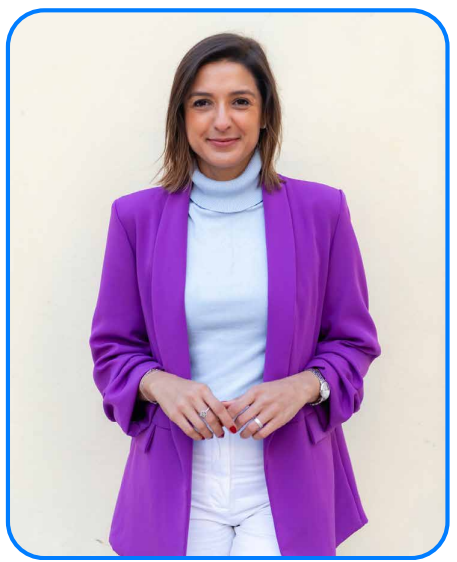
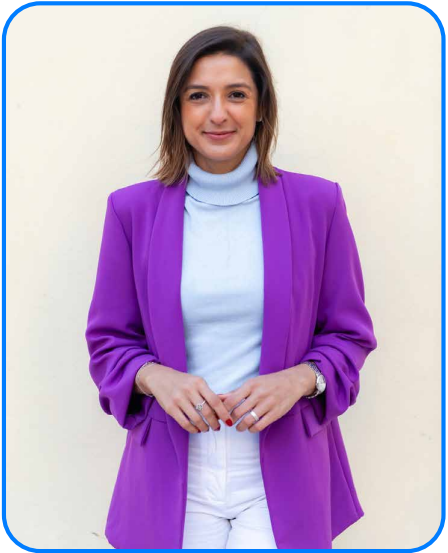
Updates

diff --git a/assets/index-f2a48c13.css b/assets/index-f2a48c13.css
@@ -1,4 +1,4 @@
-@charset "UTF-8";.app-container{display:flex;flex-direction:column;min-height:100vh}.header-bg{justify-content:center;align-items:center;padding:10px;width:100%;height:200px;z-index:5;top:0}.header-container.container{margin:0;padding:0;top:0;display:flex;background-color:#fff}.header-link{display:flex;align-items:center;justify-content:center;position:relative;margin:0 10px}.header-link,.header-link:hover,.header-link:active,.header-link:focus{font-size:1.5rem!important}.header-link p{font-family:Lato,sans-serif;margin:0;color:#fff;background-color:#8900fc;height:40px;padding:6px 25px;border-radius:50px;font-size:1.4vw;white-space:nowrap;display:flex;align-items:center;justify-content:center}.header-pacientes p:hover,.header-psicologos p:hover{height:40px;border-radius:20px;transform:translateY(32%)}.header-psicologos,.header-pacientes{display:flex;justify-content:center;align-items:center;flex-direction:column;height:40px;position:relative;font-family:Lato,sans-serif;color:#fff;background-color:#8900fc;padding:6px 25px;border-radius:50px;font-size:1.4vw;white-space:nowrap;text-decoration:none}.header-logo img{content:url(https://gibasa.github.io/ludmila_garcia/images/itens\ lud.png);height:120px;background-size:contain}.header-pacientes-toggle,.header-psicologos-toggle{font-family:Lato,sans-serif;color:#fff;background-color:#8900fc;padding:6px 25px;border-radius:50px;font-size:1.2rem;white-space:nowrap}.header-dropdown-menu{background-color:#8900fc}.header-dropdown-menu .dropdown-item{color:#fff;padding:6px 25px;font-size:1.2rem}.navbar-toggler{margin-right:60px}@media (max-width: 991px){.header-container{gap:0vw}.show p,.show .header-pacientes,.show .header-psicologos,.show .header-link{background-color:#fff;color:#8900fc;font-size:2.5vw;margin:0;padding:0}.show .dropdown{display:flex;flex-direction:column}.show .dropdown-menu{border:none}.show .dropdown-item{color:#8900fc;font-size:1rem;text-align:center}}.header-bg-p{justify-content:center;align-items:center;padding:10px;width:100%;height:200px;z-index:5;top:0;background-color:#8900fc}.header-container-p.container{gap:2vw;margin:0;padding:0;top:0;display:flex;background-color:#8900fc}.header-link-p{display:flex;align-items:center;justify-content:center;padding:8px;position:relative;margin:0 10px}.header-link-p,.header-link-p:hover,.header-link-p:active,.header-link-p:focus{font-size:1.5rem!important}.header-link-p p{font-family:Lato,sans-serif;margin:0;color:#8900fc;background-color:#fff;height:40px;padding:6px 25px;border-radius:50px;font-size:1.3vw;white-space:nowrap;transition:.5s ease;display:flex;align-items:center;justify-content:center}.header-link-p p:hover{background-color:#117eff}.header-apresentacao,.header-contato{justify-self:center;align-self:center;transition:.5s ease}.header-pacientes-p p:hover,.header-psicologos-p p:hover{height:40px;border-radius:20px;transform:translateY(32%)}.header-psicologos-p,.header-pacientes-p{display:flex;justify-content:center;align-items:center;flex-direction:column;height:40px;position:relative;font-family:Lato,sans-serif;color:#8900fc;background-color:#fff;padding:6px 25px;border-radius:50px;font-size:1.3vw;white-space:nowrap;transition:.5s ease;text-decoration:none}.header-bg.scrolled .header-link-p{color:#047060}.navbar-nav .header-link-p.active p{background-color:#117eff}.header-toggle{color:#5de280}.header-logo-p img{content:url("https://gibasa.github.io/ludmila_garcia/images/Logo Lud branco.png");height:120px;background-size:contain}.header-dropdown-menu{background-color:#fff}.header-dropdown-menu .dropdown-item{color:#8900fc;padding:6px 25px;font-size:1.2rem;transition:.5s ease}.header-dropdown-menu .dropdown-item:hover{background-color:#117eff}.dropdown{display:flex;justify-content:center;align-items:center;margin:0 17px}.header-dropdown-toggle:after{display:none!important}@media (max-width: 991px){.header-container{gap:0vw}}.home{display:flex;flex-direction:column;justify-content:center;align-items:center}.home-desktop-bg{background-image:url("https://gibasa.github.io/ludmila_garcia/images/asa com texto 2.png");background-size:90% auto;background-repeat:no-repeat}.home-mobile-bg{background-image:url("https://gibasa.github.io/ludmila_garcia/images/asa com texto.png");background-size:90% auto;background-repeat:no-repeat;background-position:top}.home-content{display:flex;gap:15vw;margin-left:10vw}.home-btn{background-color:#8900fc;border-radius:50px;color:#fff;text-align:center;padding:6px 25px;font-size:1.4vw;font-weight:500;align-self:flex-start;text-decoration:none;margin-top:23.8vw}.home-btn:hover{background-color:#117eff;cursor:pointer}.home-img img{max-height:32vw;content:url("https://gibasa.github.io/ludmila_garcia/images/GRADE DE FOTO TELA 1.png")}@media (max-width: 990px){.home-content{flex-direction:column-reverse;gap:0;margin:23vw 0 0;justify-content:center;align-items:center}.home-btn{margin:5vw 0;align-self:center}.home img{max-height:45vw}}.apresentacao{display:flex;justify-content:center;align-items:center;margin:4vw;gap:50px;height:100%}.apresentacao img{content:url(https://gibasa.github.io/ludmila_garcia/images/apresentacao.png);max-width:31vw;height:auto}.apresentacao-text{width:50%}.apresentacao-text h2{color:#117eff;font-size:3rem;font-style:italic;font-weight:600;margin-bottom:50px}.apresentacao-text p{display:flex;font-weight:550}.apresentacao-points{margin-top:50px}.apresentacao-points p{margin:0}.apresentacao-point{color:#8900fc;padding-right:5px}@media (max-width: 599px){.apresentacao{flex-direction:column;margin:0}.apresentacao-text{width:80%;padding-bottom:50px}.apresentacao img{max-width:60vw}}@media (min-width: 600px) and (max-width: 989px){.apresentacao{flex-direction:column;margin:0}.apresentacao-text{width:80%;padding-bottom:50px}.apresentacao img{max-width:50vw}}@media (min-width: 990px) and (max-width: 1300px){.apresentacao{margin:2vw}}/*!
+@charset "UTF-8";.app-container{display:flex;flex-direction:column;min-height:100vh}.header-bg{justify-content:center;align-items:center;padding:10px;width:100%;height:200px;z-index:5;top:0}.header-container.container{margin:0;padding:0;top:0;display:flex;background-color:#fff}.header-link{display:flex;align-items:center;justify-content:center;position:relative;margin:0 10px}.header-link,.header-link:hover,.header-link:active,.header-link:focus{font-size:1.5rem!important}.header-link p{font-family:Lato,sans-serif;margin:0;color:#fff;background-color:#8900fc;height:40px;padding:6px 25px;border-radius:50px;font-size:1.4vw;white-space:nowrap;display:flex;align-items:center;justify-content:center}.header-pacientes p:hover,.header-psicologos p:hover{height:40px;border-radius:20px;transform:translateY(32%)}.header-psicologos,.header-pacientes{display:flex;justify-content:center;align-items:center;flex-direction:column;height:40px;position:relative;font-family:Lato,sans-serif;color:#fff;background-color:#8900fc;padding:6px 25px;border-radius:50px;font-size:1.4vw;white-space:nowrap;text-decoration:none}.header-logo img{content:url(https://gibasa.github.io/ludmila_garcia/images/itens\ lud.png);height:120px;background-size:contain}.header-pacientes-toggle,.header-psicologos-toggle{font-family:Lato,sans-serif;color:#fff;background-color:#8900fc;padding:6px 25px;border-radius:50px;font-size:1.2rem;white-space:nowrap}.header-dropdown-menu{background-color:#8900fc}.header-dropdown-menu .dropdown-item{color:#fff;padding:6px 25px;font-size:1.2rem}.navbar-toggler{margin-right:60px}@media (max-width: 991px){.header-container{gap:0vw}.show p,.show .header-pacientes,.show .header-psicologos,.show .header-link{background-color:#fff;color:#8900fc;font-size:2.5vw;margin:0;padding:0}.show .dropdown{display:flex;flex-direction:column}.show .dropdown-menu{border:none}.show .dropdown-item{color:#8900fc;font-size:1rem;text-align:center}}.header-bg-p{justify-content:center;align-items:center;padding:10px;width:100%;height:200px;z-index:5;top:0;background-color:#8900fc}.header-container-p.container{gap:2vw;margin:0;padding:0;top:0;display:flex;background-color:#8900fc}.header-link-p{display:flex;align-items:center;justify-content:center;padding:8px;position:relative;margin:0 10px}.header-link-p,.header-link-p:hover,.header-link-p:active,.header-link-p:focus{font-size:1.5rem!important}.header-link-p p{font-family:Lato,sans-serif;margin:0;color:#8900fc;background-color:#fff;height:40px;padding:6px 25px;border-radius:50px;font-size:1.3vw;white-space:nowrap;transition:.5s ease;display:flex;align-items:center;justify-content:center}.header-link-p p:hover{background-color:#117eff}.header-apresentacao,.header-contato{justify-self:center;align-self:center;transition:.5s ease}.header-pacientes-p p:hover,.header-psicologos-p p:hover{height:40px;border-radius:20px;transform:translateY(32%)}.header-psicologos-p,.header-pacientes-p{display:flex;justify-content:center;align-items:center;flex-direction:column;height:40px;position:relative;font-family:Lato,sans-serif;color:#8900fc;background-color:#fff;padding:6px 25px;border-radius:50px;font-size:1.3vw;white-space:nowrap;transition:.5s ease;text-decoration:none}.header-bg.scrolled .header-link-p{color:#047060}.navbar-nav .header-link-p.active p{background-color:#117eff}.header-toggle{color:#5de280}.header-logo-p img{content:url("https://gibasa.github.io/ludmila_garcia/images/Logo Lud branco.png");height:120px;background-size:contain}.header-dropdown-menu{background-color:#fff}.header-dropdown-menu .dropdown-item{color:#8900fc;padding:6px 25px;font-size:1.2rem;transition:.5s ease}.header-dropdown-menu .dropdown-item:hover{background-color:#117eff}.dropdown{display:flex;justify-content:center;align-items:center;margin:0 17px}.header-dropdown-toggle:after{display:none!important}@media (max-width: 991px){.header-container{gap:0vw}}.home{display:flex;flex-direction:column;justify-content:center;align-items:center}.home-desktop-bg{background-image:url("https://gibasa.github.io/ludmila_garcia/images/asa com texto 2.png");background-size:90% auto;background-repeat:no-repeat}.home-mobile-bg{background-image:url("https://gibasa.github.io/ludmila_garcia/images/asa com texto.png");background-size:90% auto;background-repeat:no-repeat;background-position:top}.home-content{display:flex;gap:15vw;margin-left:10vw}.home-btn{background-color:#8900fc;border-radius:50px;color:#fff;text-align:center;padding:6px 25px;font-size:1.4vw;font-weight:500;align-self:flex-start;text-decoration:none;margin-top:23.8vw}.home-btn:hover{background-color:#117eff;cursor:pointer}.home-img img{max-height:32vw;content:url("https://gibasa.github.io/ludmila_garcia/images/GRADE DE FOTO TELA 1.png")}@media (max-width: 990px){.home-content{flex-direction:column-reverse;gap:0;margin:23vw 0 0;justify-content:center;align-items:center}.home-btn{margin:5vw 0;align-self:center}.home img{max-height:45vw}}.apresentacao{display:flex;justify-content:center;align-items:center;margin:5.5vw 4vw;gap:50px;height:100%}.apresentacao img{content:url(https://gibasa.github.io/ludmila_garcia/images/apresentacao.png);max-width:31vw;height:auto}.apresentacao-text{width:50%}.apresentacao-text h2{color:#117eff;font-size:3rem;font-style:italic;font-weight:600;margin-bottom:50px}.apresentacao-text p{display:flex;font-weight:550}.apresentacao-points{margin-top:50px}.apresentacao-points p{margin:0}.apresentacao-point{color:#8900fc;padding-right:5px}@media (max-width: 599px){.apresentacao{flex-direction:column;margin:0}.apresentacao-text{width:80%;padding-bottom:50px}.apresentacao img{max-width:60vw}}@media (min-width: 600px) and (max-width: 989px){.apresentacao{flex-direction:column;margin:0}.apresentacao-text{width:80%;padding-bottom:50px}.apresentacao img{max-width:50vw}}@media (min-width: 990px) and (max-width: 1300px){.apresentacao{margin:2vw}}/*!
 * Bootstrap  v5.3.3 (https://getbootstrap.com/)
 * Copyright 2011-2024 The Bootstrap Authors
 * Licensed under MIT (https://github.com/twbs/bootstrap/blob/main/LICENSE)

diff --git a/index.html b/index.html
@@ -11,8 +11,8 @@
     />
     <meta name="viewport" content="width=device-width, initial-scale=1.0" />
     <title>Ludmila Garcia</title>
-    <script type="module" crossorigin src="https://gibasa.github.io/ludmila_garcia/assets/index-a1e439cd.js"></script>
-    <link rel="stylesheet" href="https://gibasa.github.io/ludmila_garcia/assets/index-490bbfa1.css">
+    <script type="module" crossorigin src="https://gibasa.github.io/ludmila_garcia/assets/index-6a43615a.js"></script>
+    <link rel="stylesheet" href="https://gibasa.github.io/ludmila_garcia/assets/index-f2a48c13.css">
   </head>
   <body>
     <div id="root"></div>
